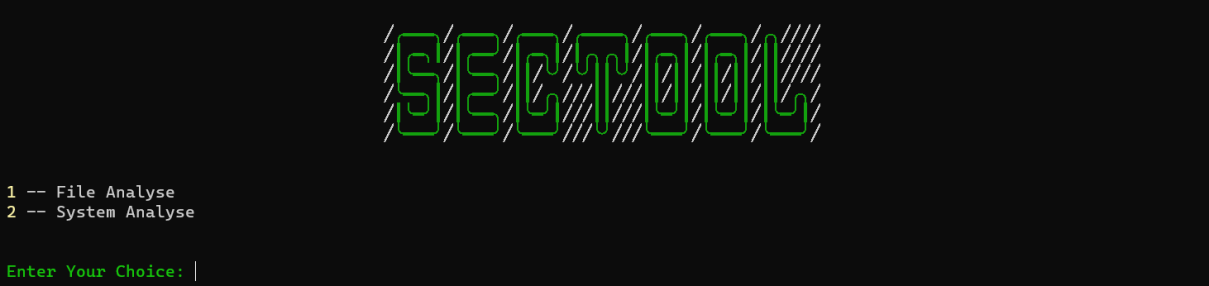
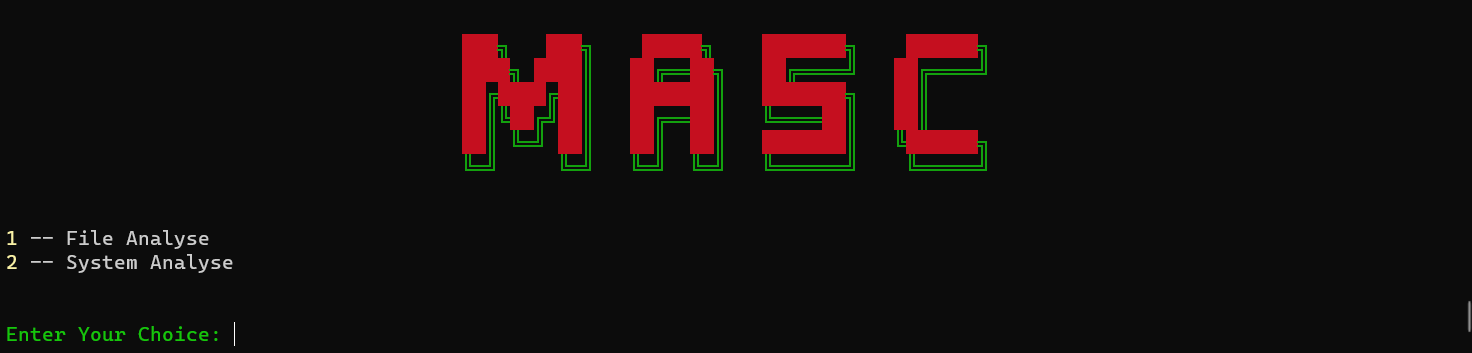
README updated

diff --git a/SecTool.py b/SecTool.py
@@ -403,8 +403,8 @@ def number_to_string(argument):
 
 def menu():
     while True:
-        output = render('SecTool', colors=[
-            'green', 'white'], align='center', font='slick')
+        output = render('masc', colors=[
+            'red',], align='center', font='slick')
         print(output)
         print(Style.BRIGHT + Fore.YELLOW + '1' + Style.RESET_ALL +
               ' -- File Analyse' + Style.RESET_ALL)
@@ -445,8 +445,8 @@ def System_analyse(arg):
 
 def main_menu():
     while True:
-        output = render('SecTool', colors=[
-            'green', 'white'], align='center', font='slick')
+        output = render('masc', colors=[
+            'red', 'green'], align='center', font="block", letter_spacing=3)
         print(output)
         print(Style.BRIGHT + Fore.YELLOW + '1' + Style.RESET_ALL +
               ' -- File Analyse' + Style.RESET_ALL)
@@ -454,7 +454,7 @@ def main_menu():
               ' -- System Analyse' + Style.RESET_ALL)
         print("\n")
         option = int(input(Style.BRIGHT + Fore.LIGHTGREEN_EX +
-                           'Enter Your Choice: ' + Style.RESET_ALL + Style.BRIGHT + Fore.YELLOW))
+                           'Enter Your Choice: ' + Style.RESET_ALL))
         number_to_string(option)
 
 

diff --git a/README.md b/README.md
@@ -19,7 +19,7 @@ Tool has two different option at first. **Malware Analyse** option can analyse m
 
 ## Malware Analyse
 
-The *Malware Analyse* option is used to scan a suspected file on the machine. It saves the file in HEX format or outputs the IP and URLs in the file to make it easier for the analysts. Outputs the file information of the file whose name is entered.
+The **Malware Analyse** option is used to scan a suspected file on the machine. It saves the file in _HEX_ format or outputs the IP and URLs in the file to make it easier for the analysts. Outputs the file information of the file whose name is entered.
 
 | <img src="Images/malware-analyse.png"/> |
 |-----------------------------------------|
@@ -27,8 +27,8 @@ The *Malware Analyse* option is used to scan a suspected file on the machine. It
 <br>
 
 1. #### Formatting file to HEX
-In this option, the file name to be converted to *HEX* format is taken as input. The file name is searched in the C folder . It'll check if this file exists in C.
-In the next step, the obtained file is read in binary format. Then it is grouped as _HEX_ and _ASCII_ together with the functions in the image. The user is then asked if the file is ready and if they want to open it.
+In this option, the file name to be converted to **HEX** format is taken as input. The file name is searched in the C folder . It'll check if this file exists in C.
+In the next step, the obtained file is read in binary format. Then it is grouped as **HEX** and **ASCII** together with the functions in the image. The user is then asked if the file is ready and if they want to open it.
 <br>
 
 | <img src="Images/hex-file.png"/>   |
@@ -38,7 +38,7 @@ In the next step, the obtained file is read in binary format. Then it is grouped
 
 2. #### Listing IPs and URLs on the file
 
-In this option, the _IPs_ and _URLs_ in the selected file are listed. For this listing, the IPs and URLs that the file communicates with are revealed as a result of a regex-based search.
+In this option, the **IPs** and **URLs** in the selected file are listed. For this listing, the IPs and URLs that the file communicates with are revealed as a result of a regex-based search.
 
 | <img src="Images/ip-url.png"/>       |
 |--------------------------------------|
@@ -49,7 +49,7 @@ In this option, the _IPs_ and _URLs_ in the selected file are listed. For this l
 
 ## System Analyse
 
-With the system analyse option, `.exe` files on the device can be queried on _VirusTotal_ and the IP addresses that the device connects to can be examined.
+With the system analyse option, `.exe` files on the device can be queried on **VirusTotal** and the IP addresses that the device connects to can be examined.
 
 | <img src="Images/system-analyse.png"/> |
 |----------------------------------------|
@@ -59,15 +59,43 @@ With the system analyse option, `.exe` files on the device can be queried on _Vi
 
 1. #### Browser History Control
 
+    With this option, the history of the **default browser** on the device is obtained. With the help of the API over VirusTotal, it is questioned whether the requested URLs are harmful.
+    
+    | <img src="Images/browser-history.png"/> |
+    |----------------------------------------|
+    | **Browser History**                     | 
+
+<br>
 
 2. #### Checking all Windows Services
 
+    This option lists **all services** running on the device. In this way, any service that could threaten the security of the device is checked. Services are downloaded with the help of _Psutil_ library.
+
+    | <img src="Images/w-service-results.png"/> |
+    |----------------------------------------|
+    | **Windows Services**                   | 
+
+<br>
 
 3. #### Get Startup Files
 
+    It gives a list of files that start when the device is started. Malware can be contained in the startup files which runs when device starts up. Viewing these files can help to identify if malicious software is present.
+    
+    | <img src="Images/startups.png"/> |
+    |----------------------------------------|
+    | **Startups**                            | 
+
+<br>
 
 4. #### Netstat Connection Table and Foreign IP addresses
+    
+    With this option, the **Netstat** connection table of the device is saved in a .txt file and external **IP** addresses can be examined. All of the connected IP addresses and which processes they are running can be seen. **Foreign IPs** can be queried via **_VirusTotal_**.
 
+    | <img src="Images/netstat.png"/> |
+    |----------------------------------------|
+    | **Netstat Table and Foreign IP Addresses**              | 
+
+<br>
 
 5. #### VirusTotal File Upload and Analyse
 
